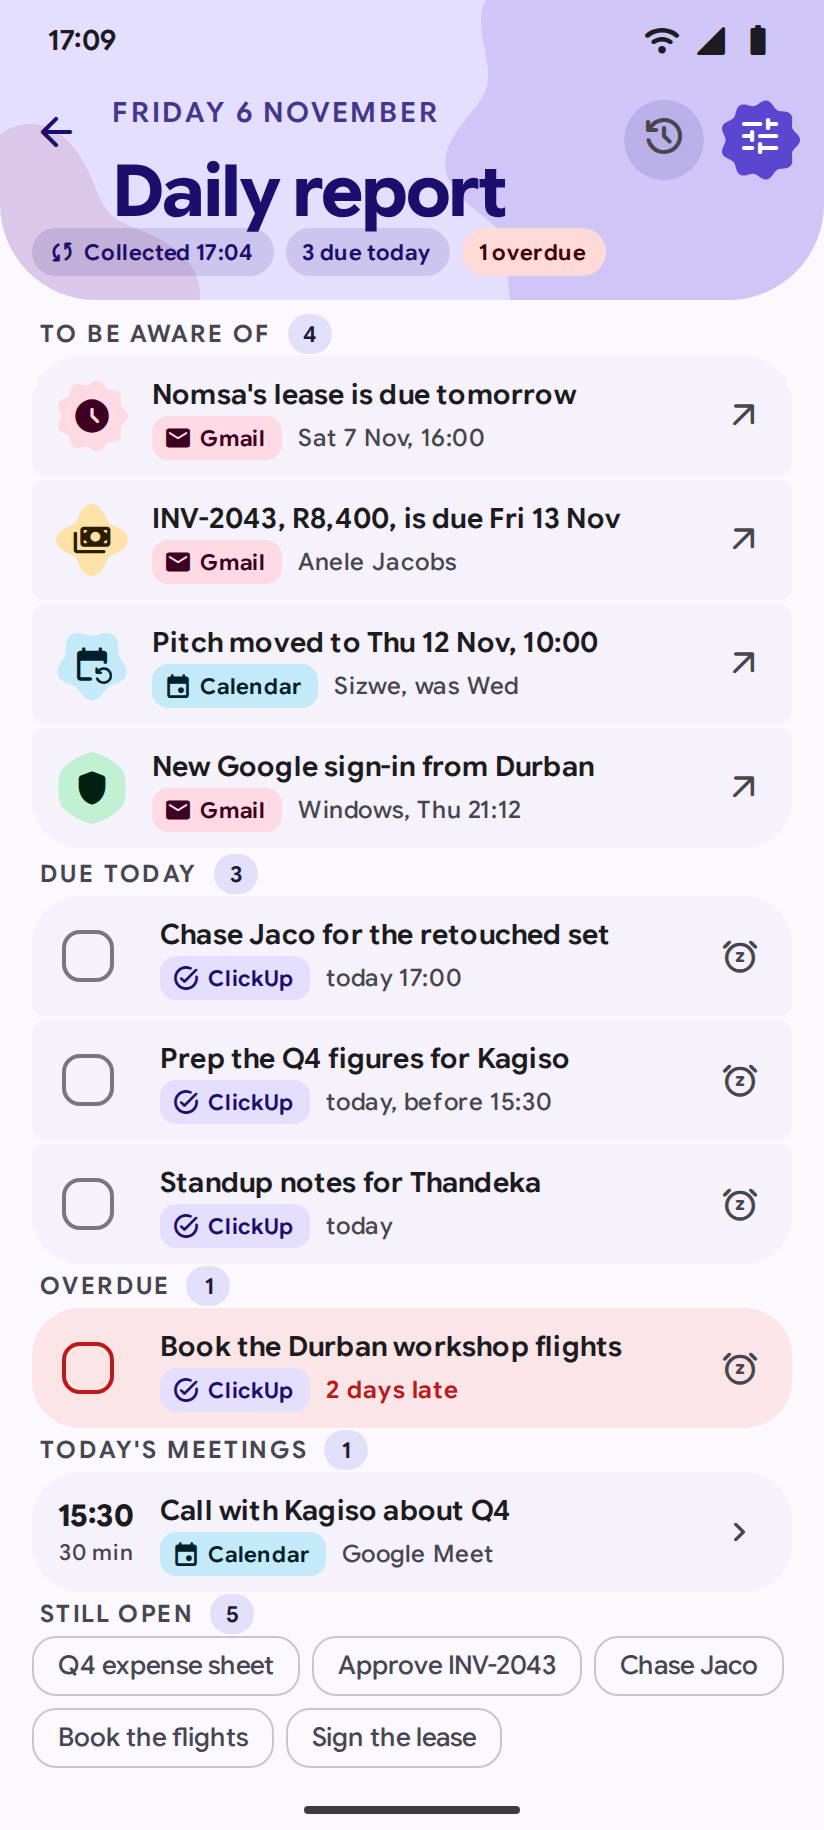
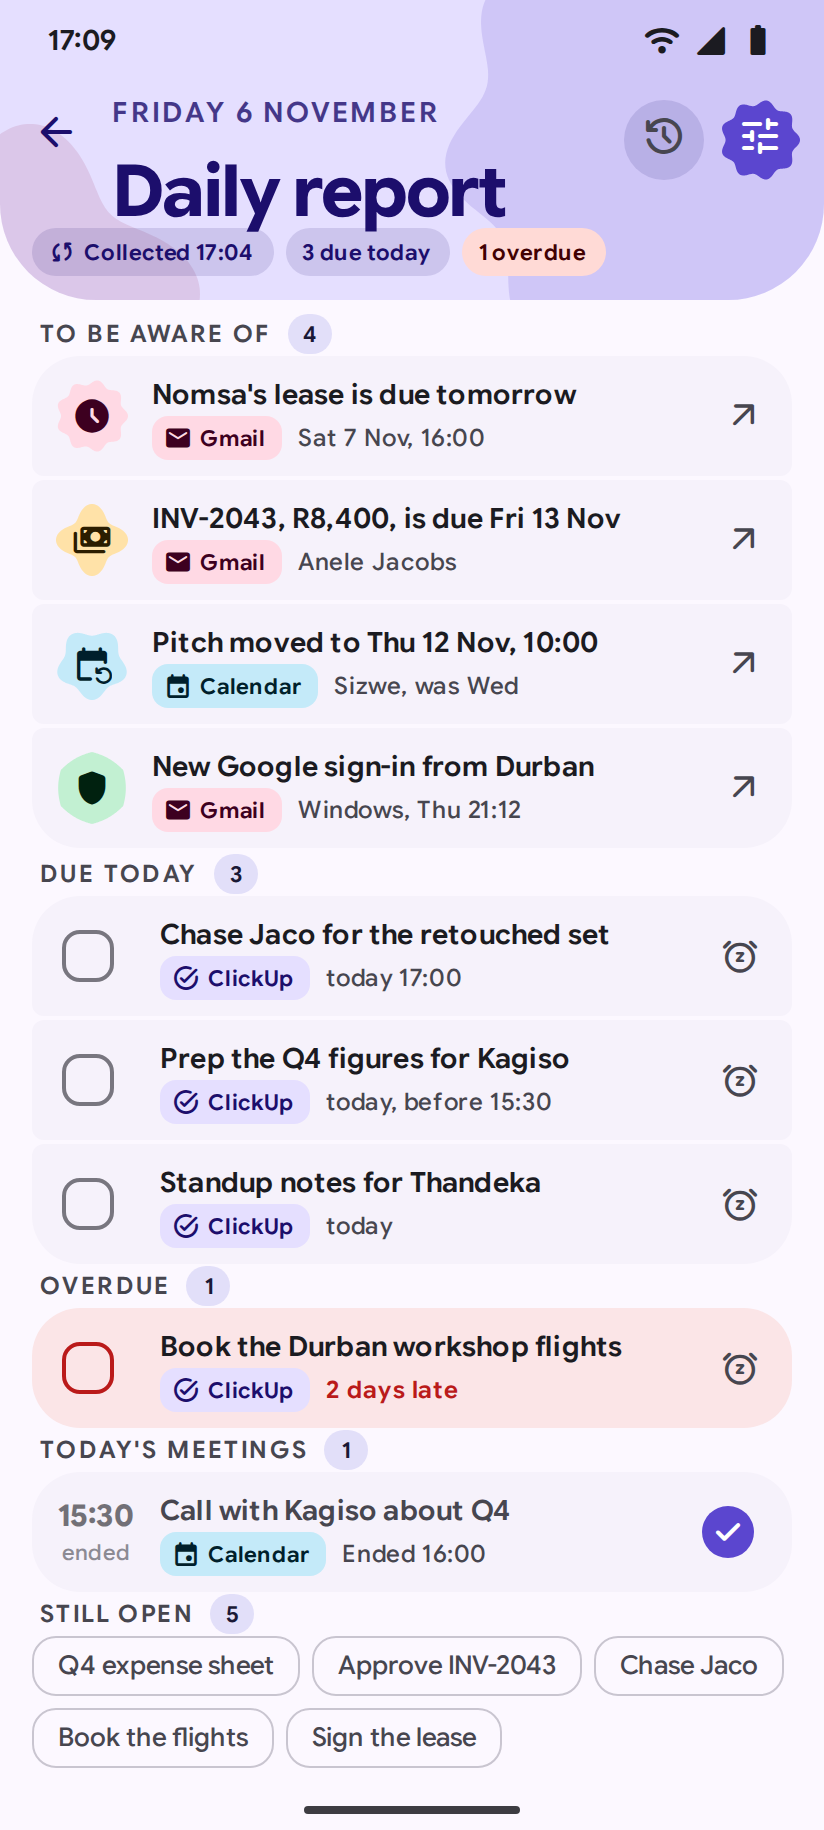
Mocks 06 to 10 (daily report, people, person, nudge, chat answer): v5

Changed region(s): [[0.2124, 0.8098, 0.6068, 0.8721], [0.0607, 0.8098, 0.1517, 0.8721], [0.8495, 0.8098, 0.9102, 0.8721]]

diff --git a/design/life-agent-mocks/06-daily-report-dark.html b/design/life-agent-mocks/06-daily-report-dark.html
@@ -42,7 +42,7 @@ ${blobHeader({ eyebrow: 'FRIDAY 6 NOVEMBER', title: '<span style="font:700 36px/
 
   <div style="height:0"></div>
   ${sec('TODAY\'S MEETINGS', 1)}
-  <div class="grp"><div class="row" style="min-height:50px"><div style="width:40px;flex:none;text-align:center"><div class="title-m-em" style="line-height:20px;font-size:15px">15:30</div><div class="label-s muted" style="font-weight:500">30 min</div></div><div class="txt"><div class="ttl" style="font-size:14px">Call with Kagiso about Q4</div><div class="meta" style="margin-top:1px">${sc('cal')}<span class="t">Google Meet</span></div></div><div class="ib" style="width:44px">${ic('chevron_right', 's20')}</div></div></div>
+  <div class="grp"><div class="row" style="min-height:50px"><div style="width:40px;flex:none;text-align:center;opacity:.6"><div class="title-m-em" style="line-height:20px;font-size:15px">15:30</div><div class="label-s muted" style="font-weight:500">ended</div></div><div class="txt"><div class="ttl" style="font-size:14px;color:var(--on-surface-variant)">Call with Kagiso about Q4</div><div class="meta" style="margin-top:1px">${sc('cal')}<span class="t">Ended 16:00</span></div></div><div class="tickw" style="margin:0 4px 0 0"><div class="tick done">${ic('check', 'b s18')}</div></div></div></div>
 
   <div style="height:0"></div>
   ${sec('STILL OPEN', 5)}

diff --git a/design/life-agent-mocks/06-daily-report-light.html b/design/life-agent-mocks/06-daily-report-light.html
@@ -42,7 +42,7 @@ ${blobHeader({ eyebrow: 'FRIDAY 6 NOVEMBER', title: '<span style="font:700 36px/
 
   <div style="height:0"></div>
   ${sec('TODAY\'S MEETINGS', 1)}
-  <div class="grp"><div class="row" style="min-height:50px"><div style="width:40px;flex:none;text-align:center"><div class="title-m-em" style="line-height:20px;font-size:15px">15:30</div><div class="label-s muted" style="font-weight:500">30 min</div></div><div class="txt"><div class="ttl" style="font-size:14px">Call with Kagiso about Q4</div><div class="meta" style="margin-top:1px">${sc('cal')}<span class="t">Google Meet</span></div></div><div class="ib" style="width:44px">${ic('chevron_right', 's20')}</div></div></div>
+  <div class="grp"><div class="row" style="min-height:50px"><div style="width:40px;flex:none;text-align:center;opacity:.6"><div class="title-m-em" style="line-height:20px;font-size:15px">15:30</div><div class="label-s muted" style="font-weight:500">ended</div></div><div class="txt"><div class="ttl" style="font-size:14px;color:var(--on-surface-variant)">Call with Kagiso about Q4</div><div class="meta" style="margin-top:1px">${sc('cal')}<span class="t">Ended 16:00</span></div></div><div class="tickw" style="margin:0 4px 0 0"><div class="tick done">${ic('check', 'b s18')}</div></div></div></div>
 
   <div style="height:0"></div>
   ${sec('STILL OPEN', 5)}

diff --git a/design/life-agent-mocks/09-nudge-dark.html b/design/life-agent-mocks/09-nudge-dark.html
@@ -43,7 +43,7 @@ mount(`
     <div style="font:400 14px/20px var(--font);color:var(--on-surface-variant)">15:30 to 16:00 &middot; Google Meet &middot; in 8 min</div>
   </div>
 
-  <div style="display:flex;justify-content:center;margin-top:8px"><span class="nbtn" style="background:rgba(20,16,40,.45);color:#fff;backdrop-filter:blur(12px);height:40px">Manage</span></div>
+  <div style="text-align:center;margin-top:10px;color:#fff;font:500 13px/18px var(--font);opacity:.85">2 notifications</div>
 </div>
 
 <div class="abs" style="left:32px;bottom:60px;z-index:5"><div class="lockbtn">${ic('call', 'f')}</div></div>

diff --git a/design/life-agent-mocks/09-nudge-light.html b/design/life-agent-mocks/09-nudge-light.html
@@ -43,7 +43,7 @@ mount(`
     <div style="font:400 14px/20px var(--font);color:var(--on-surface-variant)">15:30 to 16:00 &middot; Google Meet &middot; in 8 min</div>
   </div>
 
-  <div style="display:flex;justify-content:center;margin-top:8px"><span class="nbtn" style="background:rgba(20,16,40,.45);color:#fff;backdrop-filter:blur(12px);height:40px">Manage</span></div>
+  <div style="text-align:center;margin-top:10px;color:#fff;font:500 13px/18px var(--font);opacity:.85">2 notifications</div>
 </div>
 
 <div class="abs" style="left:32px;bottom:60px;z-index:5"><div class="lockbtn">${ic('call', 'f')}</div></div>
